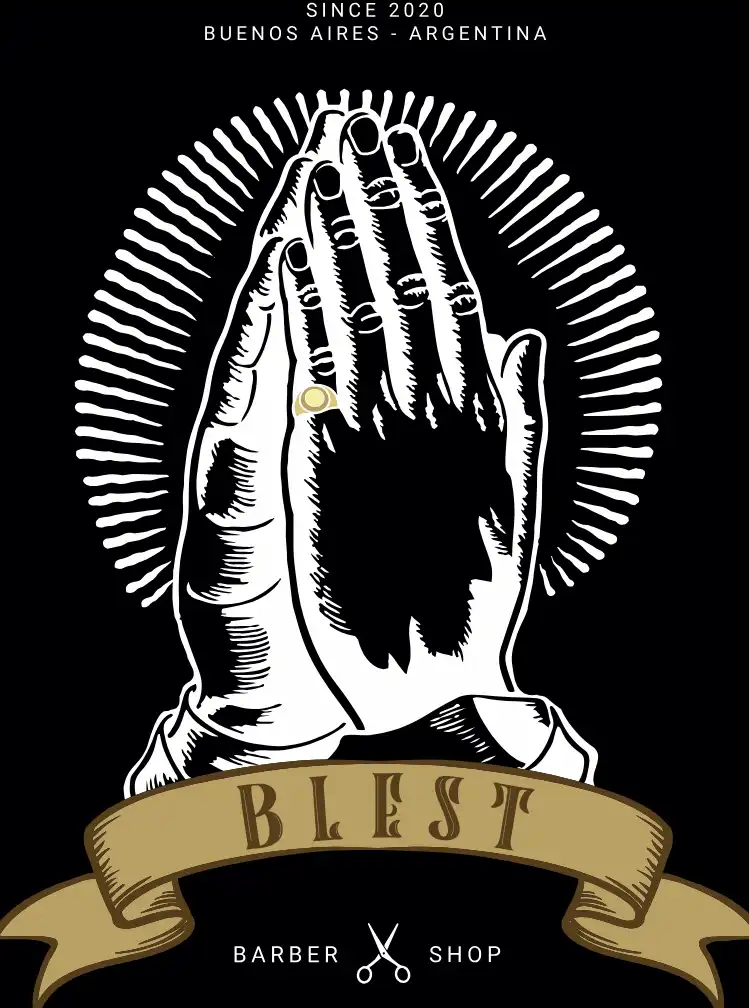
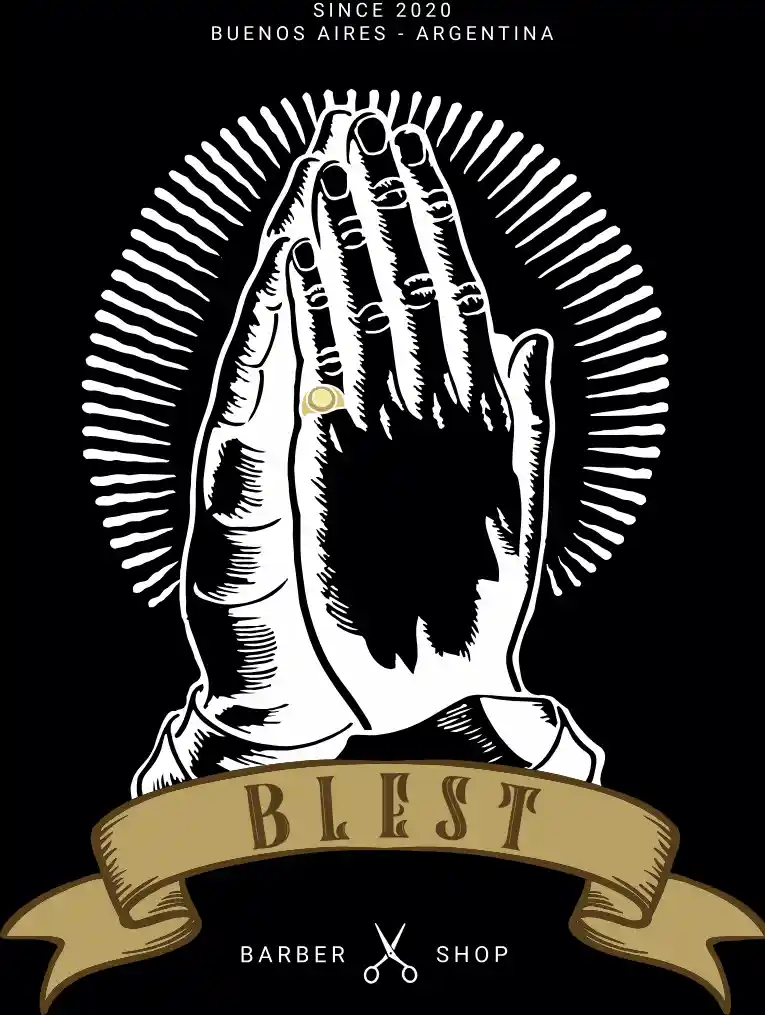
Arreglos visuales

diff --git a/css/style.css b/css/style.css
@@ -119,7 +119,7 @@ img { max-width: 100%; }
 
 /* ---- NAVBAR ---- */
 #mainNav {
-  background-color: transparent;
+  background-color: rgba(10,10,10,0.97);
   padding: 20px 0;
   transition: background-color 0.4s ease, padding 0.4s ease, box-shadow 0.4s ease;
   border-bottom: 1px solid transparent;